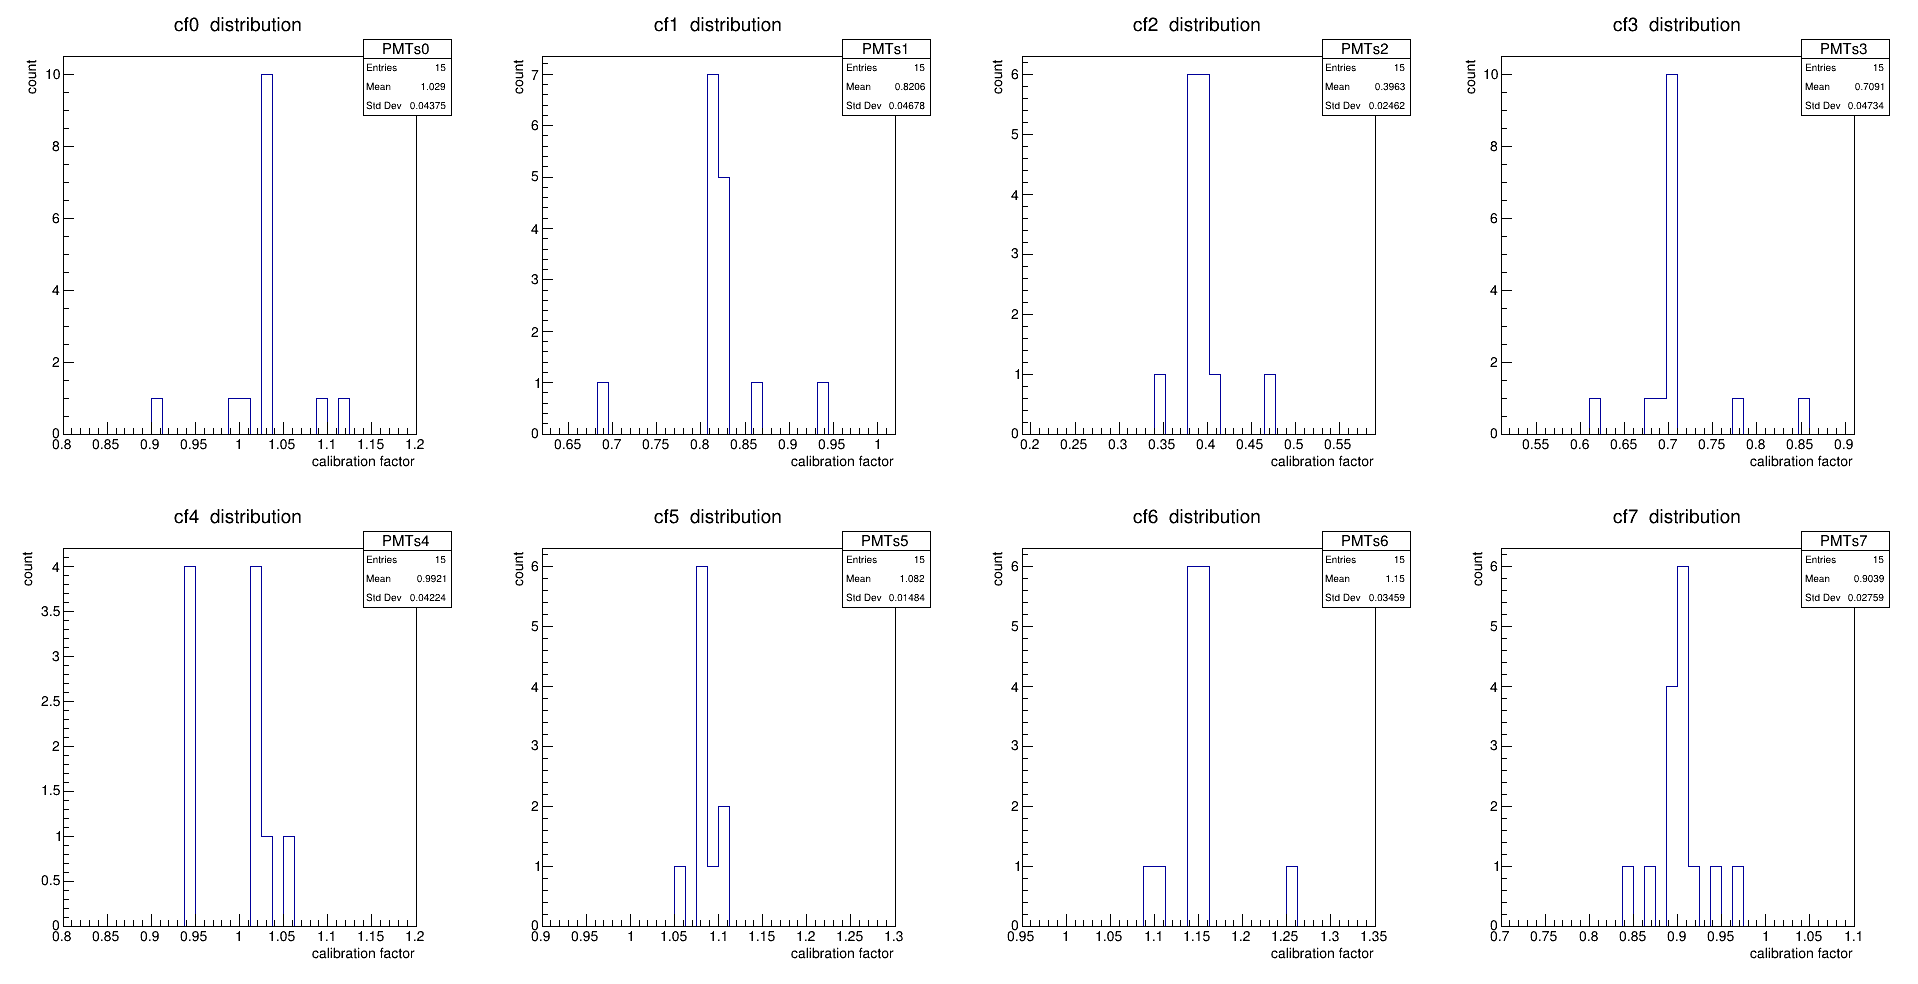
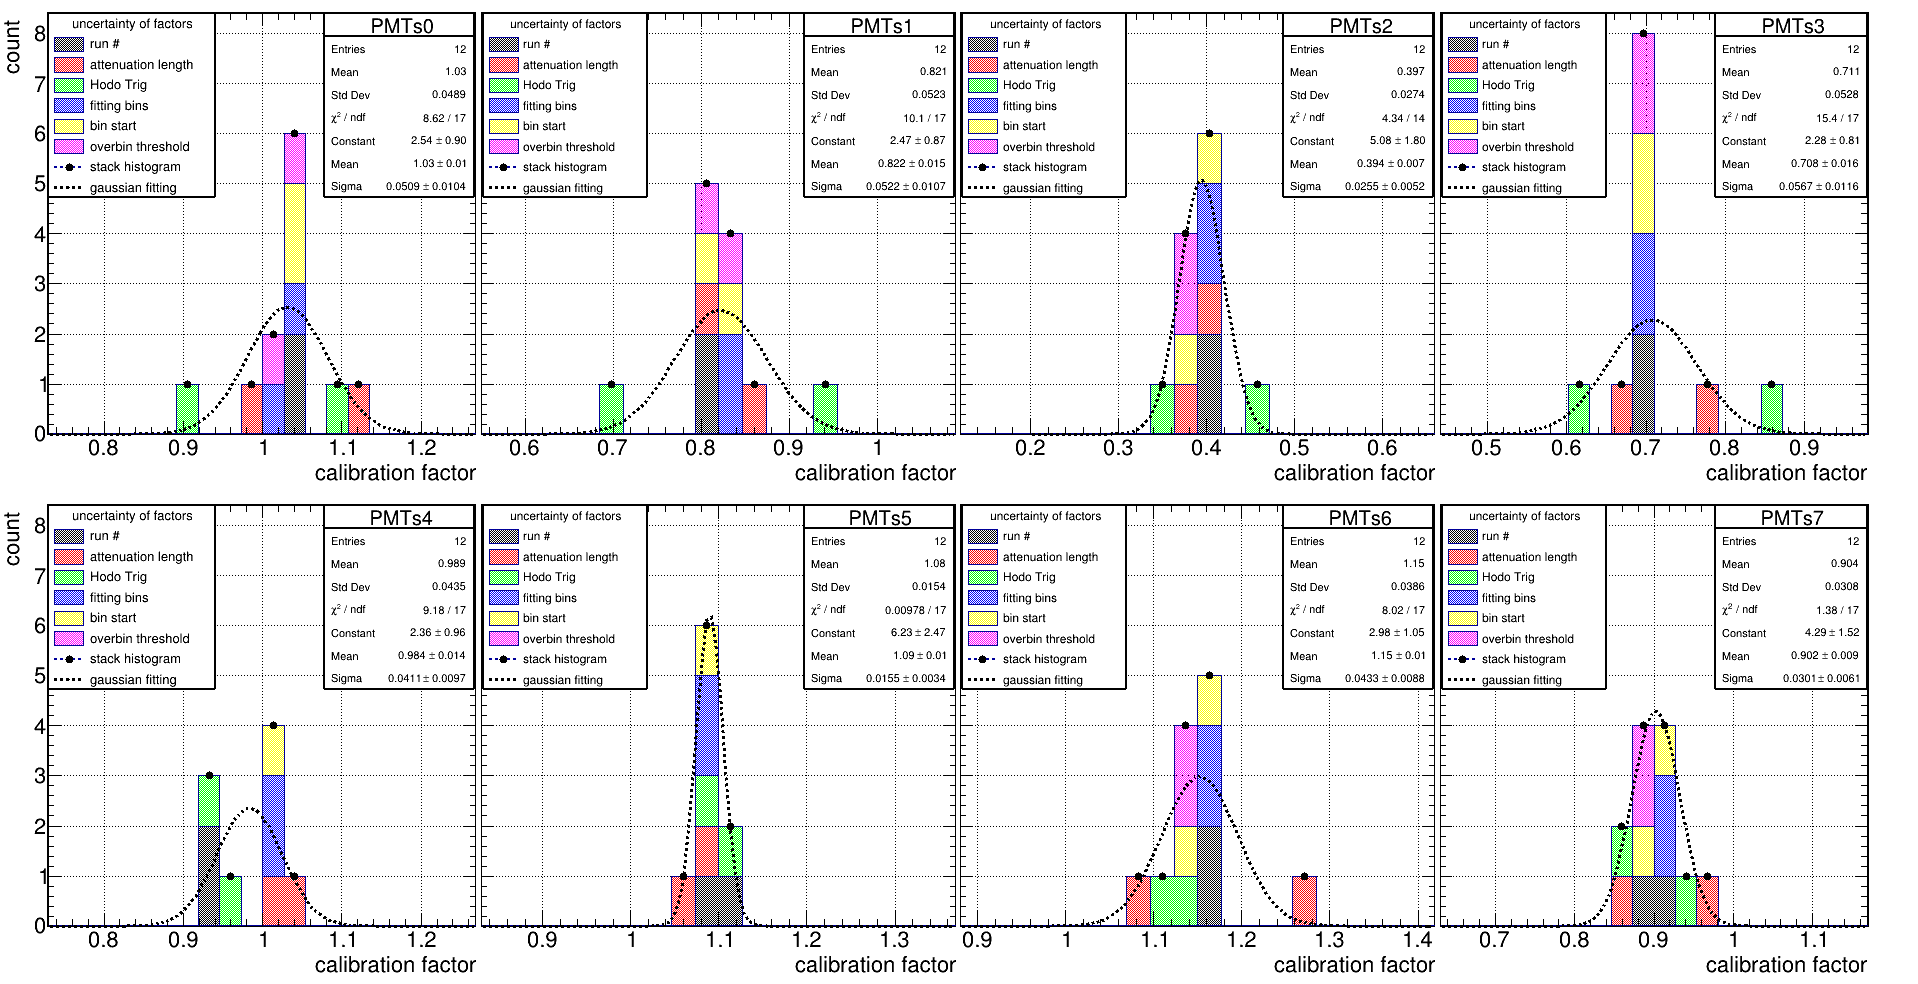
42commit

diff --git a/docs/analysis-water/pol.md b/docs/analysis-water/pol.md
@@ -1,0 +1,81 @@
+# path length of photons
+
+## Hodo trig and H6
+<p align="center">
+<img src="uncertaintyfig/Hodoh6ol.png" width="900" />
+photon path length
+</p>
+<p align="center">
+<img src="uncertaintyfig/Hodoh6olexp.png" width="900" />
+with water attenuation length=20m, photon attenuation
+</p>
+<p align="center">
+<img src="uncertaintyfig/Hodoh6olposition.png" width="900" />
+the point of chrenkov light generated.
+</p>
+
+## Hodo trig and H5
+<p align="center">
+<img src="uncertaintyfig/Hodoh5ol.png" width="900" />
+photon path length
+</p>
+<p align="center">
+<img src="uncertaintyfig/Hodoh5olexp.png" width="900" />
+with water attenuation length=20m, photon attenuation
+</p>
+<p align="center">
+<img src="uncertaintyfig/Hodoh5olposition.png" width="900" />
+the point of chrenkov light generated.
+</p>
+
+
+## Hodo trig no bottom trig selection
+<p align="center">
+<img src="uncertaintyfig/Hodoonlyol.png" width="900" />
+photon path length
+</p>
+<p align="center">
+<img src="uncertaintyfig/Hodoonlyolexp.png" width="900" />
+with water attenuation length=20m, photon attenuation
+</p>
+<p align="center">
+<img src="uncertaintyfig/Hodoonlyolposition.png" width="900" />
+the point of chrenkov light generated.
+</p>
+
+
+********************************
+********************************
+********************************
+********************************
+********************************
+
+
+## Hodo trig(1111) and H6
+<p align="center">
+<img src="uncertaintyfig/Hodo26ol.png" width="900" />
+photon path length
+</p>
+<p align="center">
+<img src="uncertaintyfig/Hodo26olexp.png" width="900" />
+with water attenuation length=20m, photon attenuation
+</p>
+<p align="center">
+<img src="uncertaintyfig/Hodo26olposition.png" width="900" />
+the point of chrenkov light generated.
+</p>
+
+
+## Hodo trig and H5
+<p align="center">
+<img src="uncertaintyfig/Hodo25ol.png" width="900" />
+photon path length
+</p>
+<p align="center">
+<img src="uncertaintyfig/Hodo25olexp.png" width="900" />
+with water attenuation length=20m, photon attenuation
+</p>
+<p align="center">
+<img src="uncertaintyfig/Hodo25olposition.png" width="900" />
+the point of chrenkov light generated.
+</p>

diff --git a/docs/analysis-water/_sidebar.md b/docs/analysis-water/_sidebar.md
@@ -32,3 +32,6 @@
 * [uncertainty-Hodo trig combination](analysis-water/uhodotrig.md)
 * [uncertainty-attenuation length](analysis-water/ual.md)
 * [uncertainty- dataselect](analysis-water/udataset.md)
+* [uncertainty of cf](analysis-water/allcf.md)
+* [single pe spectrum ](analysis-water/specomp.md)
+* [path length of  photons ](analysis-water/pol.md)

diff --git a/docs/analysis-water/specomp.md b/docs/analysis-water/specomp.md
@@ -1,0 +1,6 @@
+# single p.e. spectrum of PMTs
+
+<p align="center">
+<img src="uncertaintyfig/speled.png" width="900" />
+single p.e. spectrum of different charge calculation
+</p>

diff --git a/docs/analysis-water/allcf.md b/docs/analysis-water/allcf.md
@@ -1,0 +1,5 @@
+# uncertainty of all pmts
+
+<p align="center">
+<img src="uncertaintyfig/allcf.png" width="900" />
+</p>
